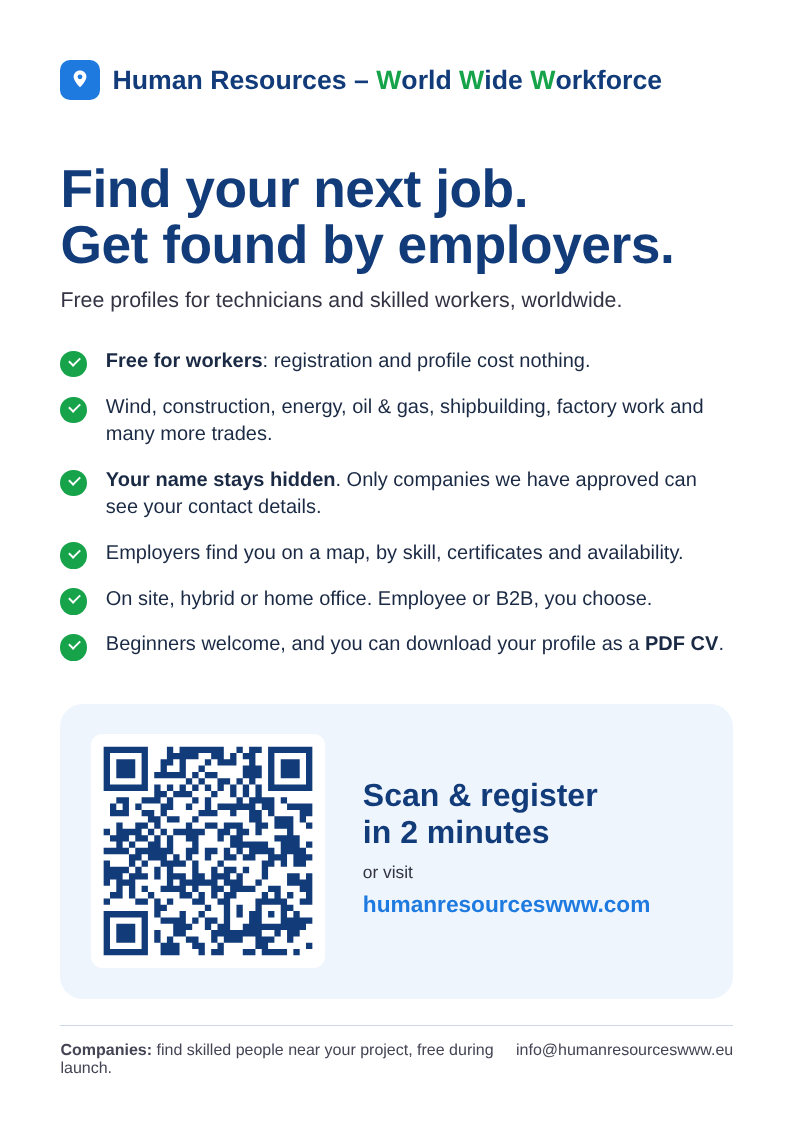
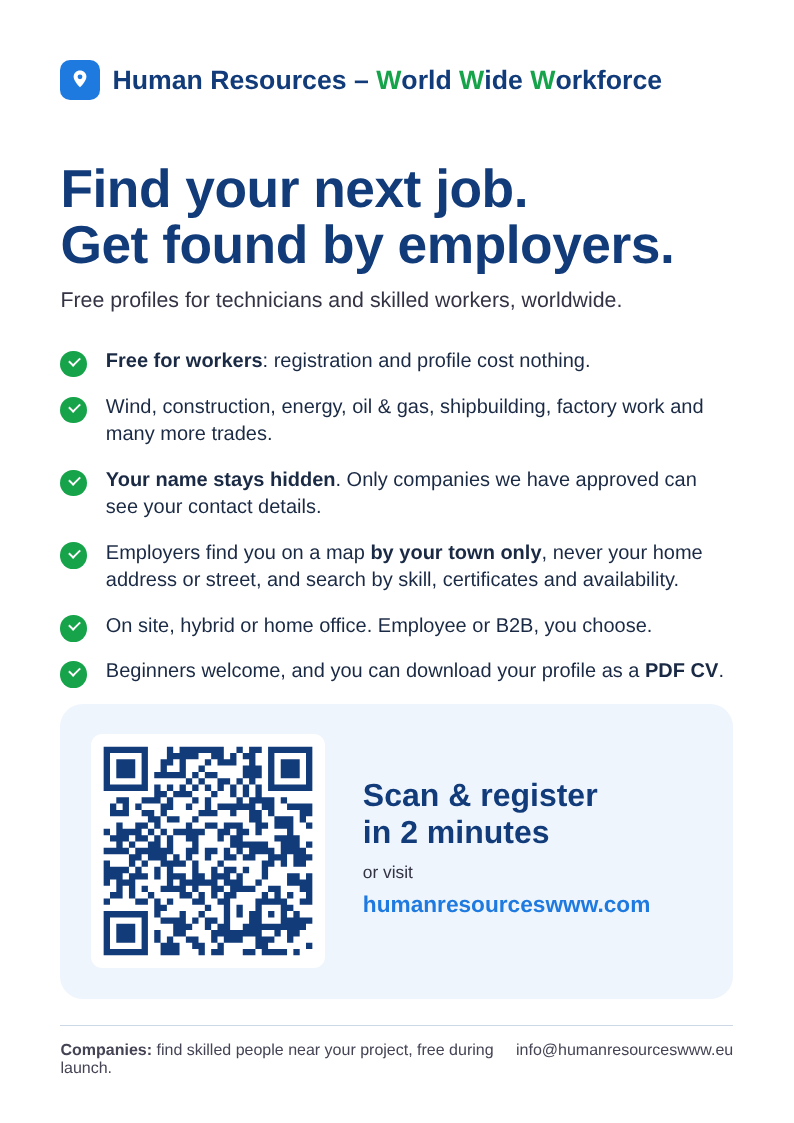
Marketing: say the map shows the town only, never a home address
Claude-Session: https://claude.ai/code/session_01HWEFNosj214JJZU7AjJDhs

Changed region(s): [[0.0605, 0.4675, 0.9068, 0.6233]]

diff --git a/marketing/poster.html b/marketing/poster.html
@@ -22,7 +22,7 @@ li:after{content:"";position:absolute;left:2.2mm;top:2.6mm;width:2.4mm;height:1.
 <li><b>Free for workers</b>: registration and profile cost nothing.</li>
 <li>Wind, construction, energy, oil &amp; gas, shipbuilding, factory work and many more trades.</li>
 <li><b>Your name stays hidden</b>. Only companies we have approved can see your contact details.</li>
-<li>Employers find you on a map, by skill, certificates and availability.</li>
+<li>Employers find you on a map <b>by your town only</b>, never your home address or street, and search by skill, certificates and availability.</li>
 <li>On site, hybrid or home office. Employee or B2B, you choose.</li>
 <li>Beginners welcome, and you can download your profile as a <b>PDF CV</b>.</li>
 </ul>

diff --git a/marketing/launch-texts.md b/marketing/launch-texts.md
@@ -20,6 +20,7 @@ Ask the group admin first if the group has rules about links.
 >
 > ✅ Free for workers, no fees ever
 > ✅ Your name and contact stay hidden. Only companies I have checked and approved can see them
+> ✅ The map shows only your town, never your home address or street
 > ✅ On site, hybrid or home office; employee or B2B/freelance, you choose
 > ✅ Beginners welcome, and you can download your profile as a PDF CV
 >
@@ -34,7 +35,7 @@ Ask the group admin first if the group has rules about links.
 
 > Hi [name]! I've launched a free site for technicians: **humanresourceswww.com**
 > You make a profile once (skills, certs, when you're free) and companies find you on a map.
-> Your name stays hidden until a checked company contacts you.
+> Only your town is shown on the map (no address), and your name stays hidden until a checked company contacts you.
 > Takes 2 minutes. Would you register and pass it on to the crew? 🙏
 > https://humanresourceswww.com
 
@@ -56,6 +57,7 @@ Short version for a WhatsApp status (use `poster.png` as the picture):
 > 🔹 Workers register free with skills, certificates, languages and availability
 > 🔹 Companies search by trade, skill and distance to their site
 > 🔹 Names and contact details are shown only to companies we have approved
+> 🔹 The map shows a worker's town only, never a home address
 > 🔹 On site, hybrid or home office; employee or B2B
 >
 > Free for employers during launch.
